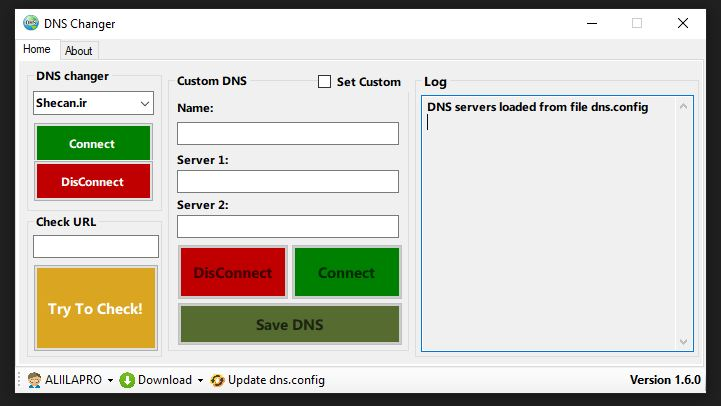
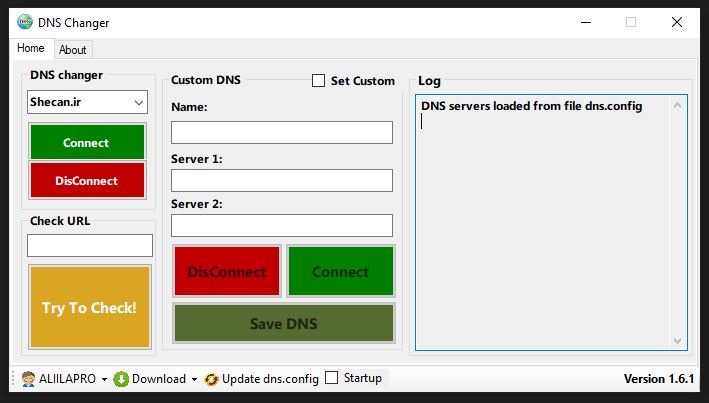
Update to v1.6.1
1. Added a context menu item in the taskbar application for connecting to DNS servers.
2. Implemented a checkbox for enabling startup behavior.
3. Added a notification feature for displaying a message when connecting to a DNS server.

diff --git a/src/main.cs b/src/main.cs
@@ -1,3 +1,4 @@
+using Microsoft.Win32;
 using System.Linq;
 using System.Net.NetworkInformation;
 using System.Management;
@@ -16,6 +17,7 @@ namespace DNS_Changer___by_aliilapro__.frm
 
         private const string AppDataFolder = "DnsChangerByALIILAPRO";
         private const string ConfigFileName = "dns.config";
+        private const string RegistryKeyName = "DNS.Changer.by.aliilapro.exe";
         private static Random rnd = new Random();
         private string GenerateUniqCode(int len)
         {
@@ -51,6 +53,7 @@ namespace DNS_Changer___by_aliilapro__.frm
             InitializeComponent();
 
             LoadDnsServersFromConfig();
+            UpdateConnectContextMenu();
 
             foreach (var server in dnsServers.Keys)
             {
@@ -241,6 +244,7 @@ namespace DNS_Changer___by_aliilapro__.frm
                 btn_connect.Enabled = false;
                 btn_disconnect.Enabled = true;
                 cmb_dns.Enabled = false;
+                noti_btndisconnect.Enabled = true;
                 Isconnect = true;
             }
         }
@@ -255,15 +259,30 @@ namespace DNS_Changer___by_aliilapro__.frm
                 btn_connect.Enabled = true;
                 btn_disconnect.Enabled = false;
                 cmb_dns.Enabled = true;
+                noti_btndisconnect.Enabled = true;
                 Isconnect = false;
             }
         }
         
         private void main_Load(object sender, System.EventArgs e)
         {
+
+            if (IsSetToRunAtStartup())
+            {
+                ch_startup.Checked = true;
+            }
+            else
+            {
+                ch_startup.Checked = false;
+            }
+
             noti.BalloonTipTitle = "DNS Changer [ by aliilapro ]";
             noti.BalloonTipText = "The program is running ...";
             noti.Text = "DNS Changer [ by aliilapro ]";
+
+
+           
+            noti.ContextMenuStrip = contextMenuStrip1;
         }
 
         private void noti_MouseDoubleClick(object sender, MouseEventArgs e)
@@ -334,12 +353,18 @@ namespace DNS_Changer___by_aliilapro__.frm
 
             SetDNS(dns1, dns2);
             txt_log.AppendText($"DNS {dns1} / {dns2}  has been set.\r\n");
+            btn_connect_custom.Enabled = false;
+            btn_disconnect_custom.Enabled = true;
+            noti_btndisconnect.Enabled = true;
         }
 
         private void btn_disconnect_custom_Click(object sender, EventArgs e)
         {
             UnsetDNS();
             txt_log.AppendText("DNS settings have been cleared.\r\n");
+            btn_connect_custom.Enabled = true;
+            btn_disconnect_custom.Enabled = false;
+            noti_btndisconnect.Enabled = false;
         }
 
         private void checkBox1_CheckedChanged(object sender, EventArgs e)
@@ -350,7 +375,7 @@ namespace DNS_Changer___by_aliilapro__.frm
                 string customDNSName = this.GenerateUniqCode(6);
                 txt_custom_dns_name.Text = "DNS_" + customDNSName;
                 btn_connect_custom.Enabled = true;
-                btn_disconnect_custom.Enabled = true;
+                btn_disconnect_custom.Enabled = false;
                 btn_save.Enabled = true;
                 btn_connect.Enabled = false;
                 btn_disconnect.Enabled = false;
@@ -431,6 +456,94 @@ namespace DNS_Changer___by_aliilapro__.frm
             }
         }
 
+        private bool IsSetToRunAtStartup()
+        {
+            RegistryKey rkApp = Registry.CurrentUser.OpenSubKey("SOFTWARE\\Microsoft\\Windows\\CurrentVersion\\Run", false);
+            if (rkApp != null)
+            {
+                string value = (string)rkApp.GetValue(RegistryKeyName);
+                rkApp.Close();
+
+                if (value != null && value == Application.ExecutablePath.ToString())
+                {
+                    return true;
+                }
+            }
+
+            return false;
+        }
+
+        private void AddToStartup()
+        {
+            RegistryKey rkApp = Registry.CurrentUser.OpenSubKey("SOFTWARE\\Microsoft\\Windows\\CurrentVersion\\Run", true);
+            rkApp.SetValue(RegistryKeyName, Application.ExecutablePath.ToString());
+            rkApp.Close();
+            ch_startup.Checked = true;
+            txt_log.AppendText("Info: DNS changer has been added to startup.\r\n");
+        }
+
+        private void RemoveFromStartup()
+        {
+            RegistryKey rkApp = Registry.CurrentUser.OpenSubKey("SOFTWARE\\Microsoft\\Windows\\CurrentVersion\\Run", true);
+            rkApp.DeleteValue(RegistryKeyName, false); 
+            rkApp.Close();
+            ch_startup.Checked = false;
+            txt_log.AppendText("Info: DNS changer has been removed from startup.\r\n");
+        }
+
+        private void DnsServerMenuItem_Click(object sender, EventArgs e)
+        {
+            if (sender is ToolStripMenuItem menuItem && menuItem.Tag is string[])
+            {
+                string[] dnsIPs = (string[])menuItem.Tag;
+                SetDNS(dnsIPs[0], dnsIPs[1]);
+                noti.ShowBalloonTip(2000, "DNS Server Connected", "DNS " + menuItem + " has been set.\r\n", ToolTipIcon.Info);
+                txt_log.AppendText("DNS " + menuItem + " has been set.\r\n");
+                noti_btndisconnect.Enabled = true;
+            }
+        }
+        private void UpdateConnectContextMenu()
+        {
+            noti_btnconnect.DropDownItems.Clear();
+
+            foreach (var dnsServer in dnsServers)
+            {
+                ToolStripMenuItem menuItem = new ToolStripMenuItem(dnsServer.Key);
+                menuItem.Tag = dnsServer.Value;
+                menuItem.Click += DnsServerMenuItem_Click;
+                noti_btnconnect.DropDownItems.Add(menuItem);
+            }
+        }
+
+        private void ch_startup_CheckedChanged(object sender, EventArgs e)
+        {
+            if (ch_startup.Checked)
+            {
+                AddToStartup();
+            }
+            else
+            {
+                RemoveFromStartup();
+            }
+        }
+
+        private void noti_btndisconnect_Click(object sender, EventArgs e)
+        {
+            UnsetDNS();
+            noti.ShowBalloonTip(2000, "DNS Server Disonnected", "DNS settings have been cleared.", ToolTipIcon.Info);
+            txt_log.AppendText("DNS settings have been cleared.\r\n");
+            if (btn_connect.Enabled == false && btn_disconnect.Enabled == true)
+            {
+                btn_connect.Enabled = true;
+                btn_disconnect.Enabled = false;
+            }
+            if (btn_connect_custom.Enabled == false && btn_disconnect_custom.Enabled == true)
+            {
+                btn_connect_custom.Enabled = true;
+                btn_disconnect_custom.Enabled = false;
+            }
+        }
+
         private void linkLabel1_LinkClicked(object sender, LinkLabelLinkClickedEventArgs e)
         {
             Process.Start("https://idpay.ir/aliilapro");
@@ -461,10 +574,10 @@ namespace DNS_Changer___by_aliilapro__.frm
         {
             Process.Start("https://github.com/ALIILAPRO/dns-changer");
         }
-        private void tabPage2_Click(object sender, EventArgs e)
+
+        private void toolStripMenuItem3_Click(object sender, EventArgs e)
         {
-
+            Application.Exit();
         }
-
     }
 }
